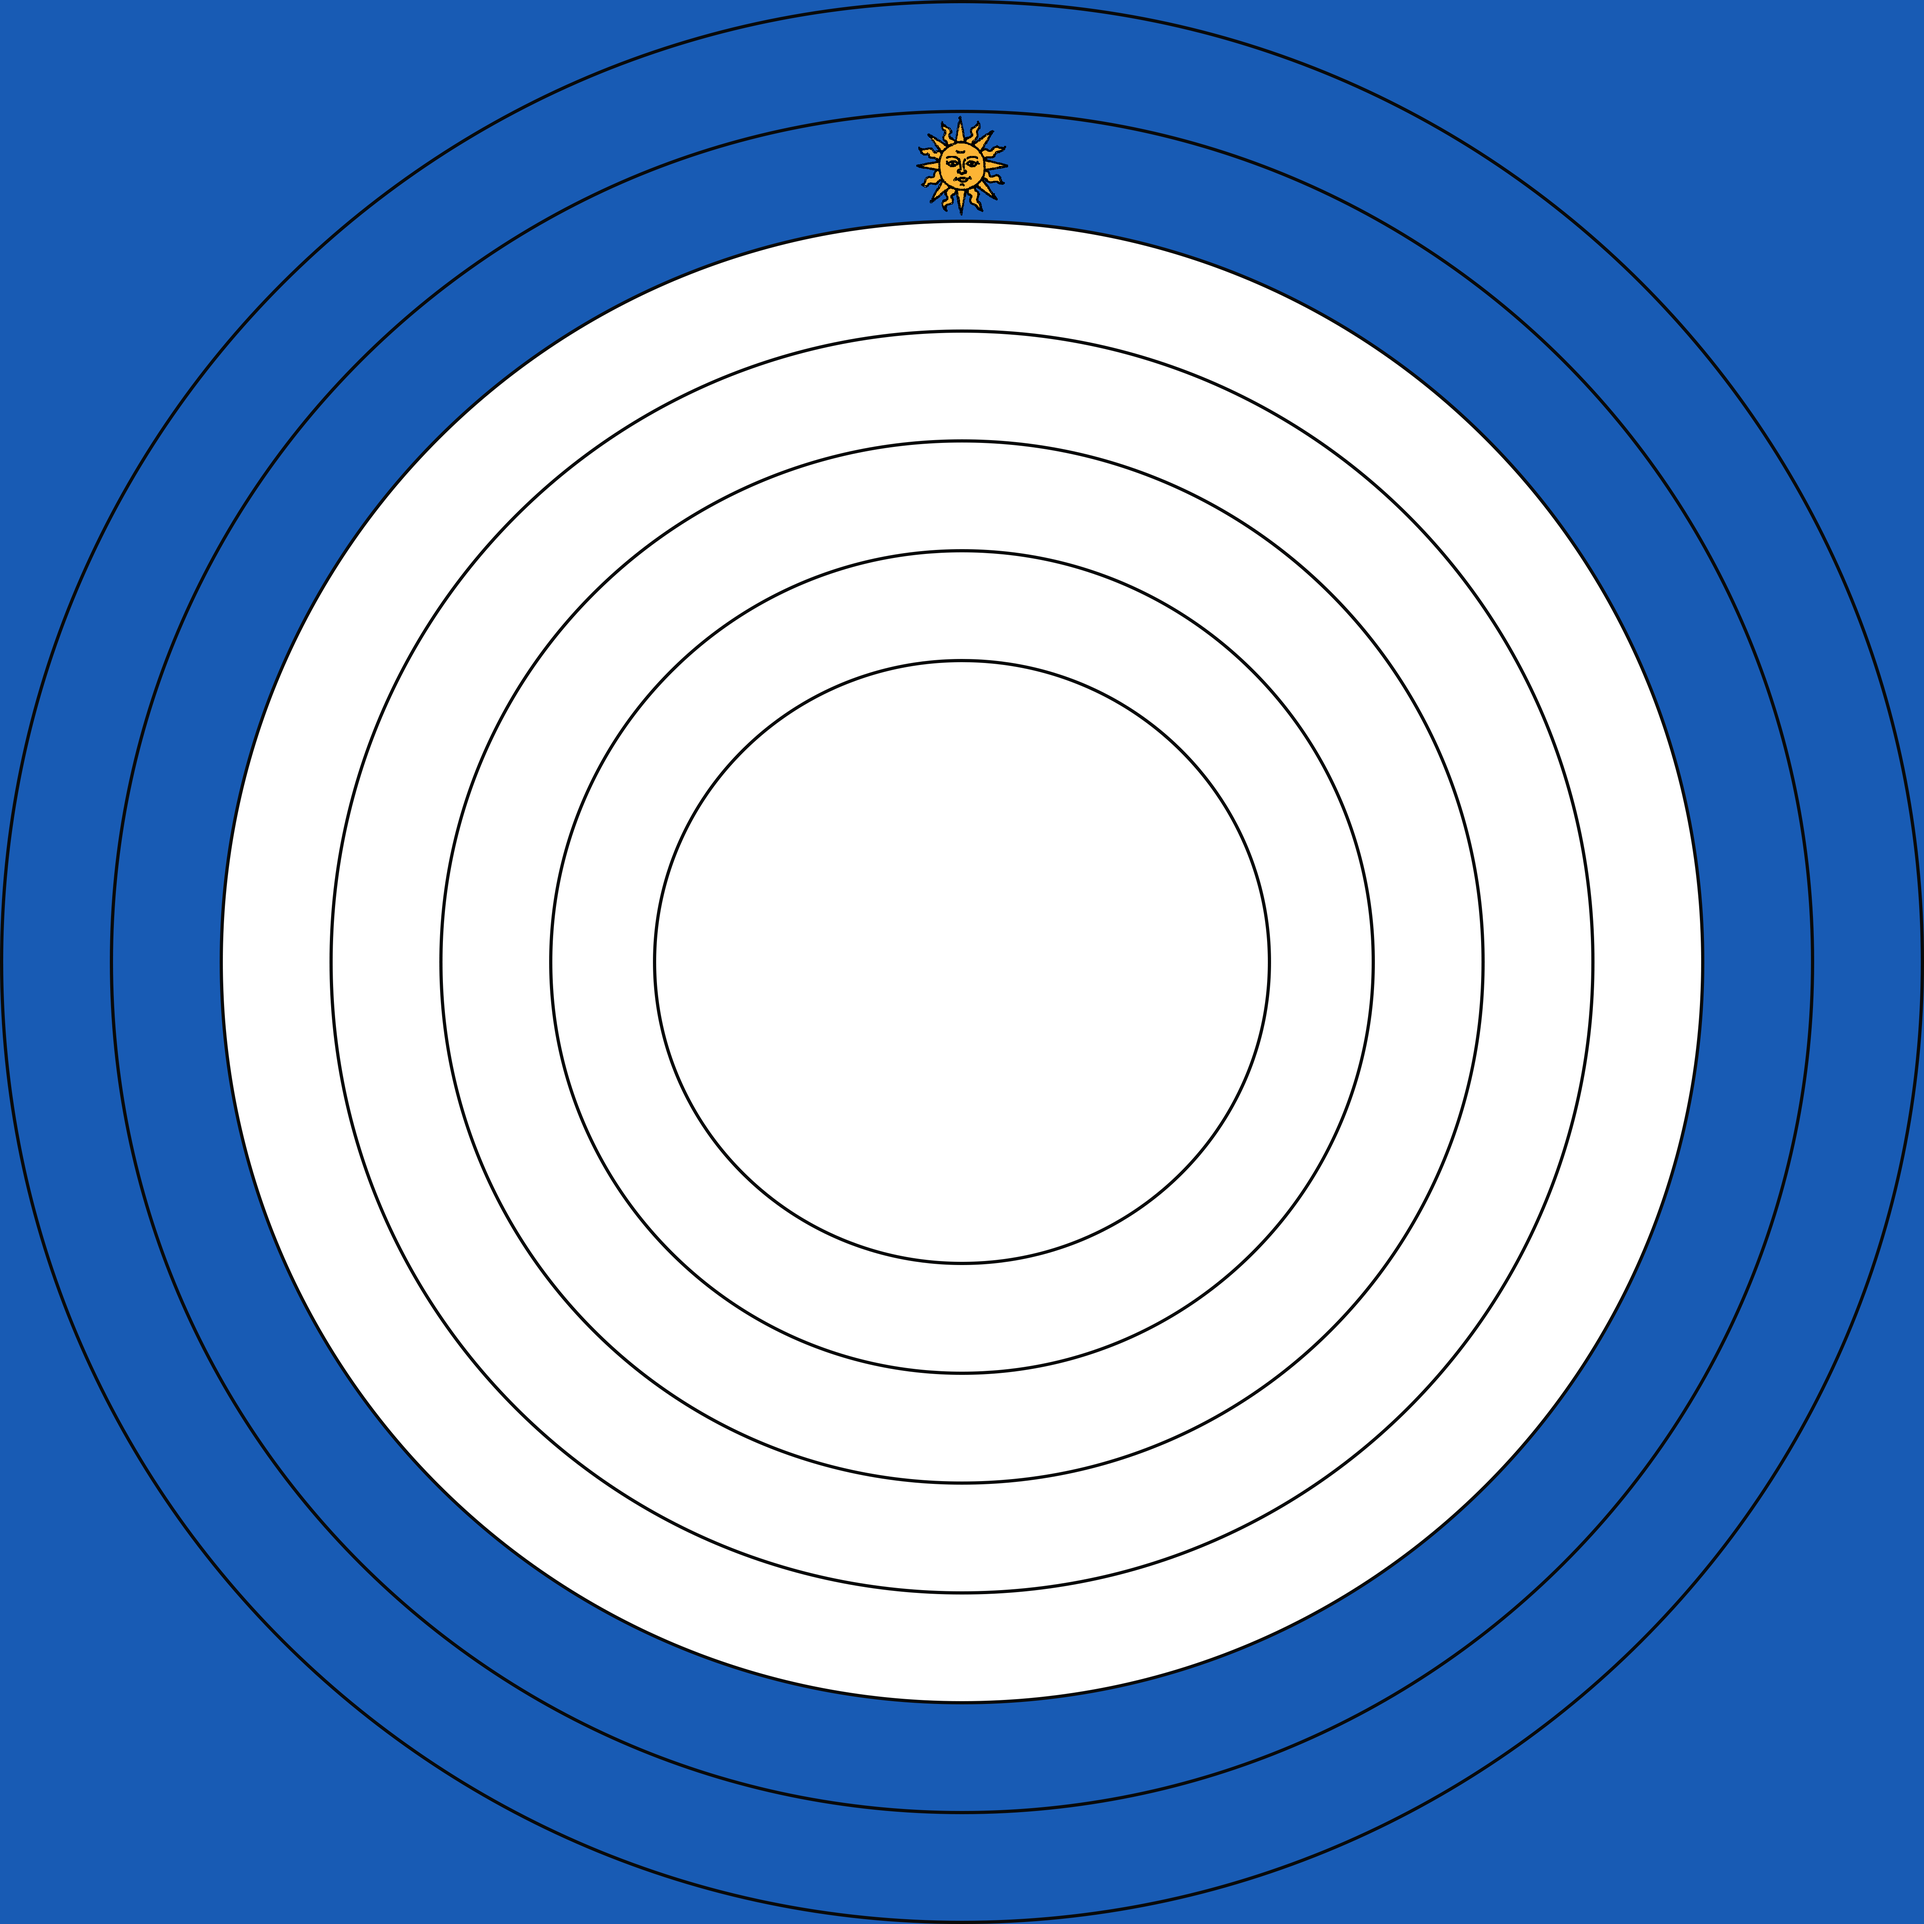
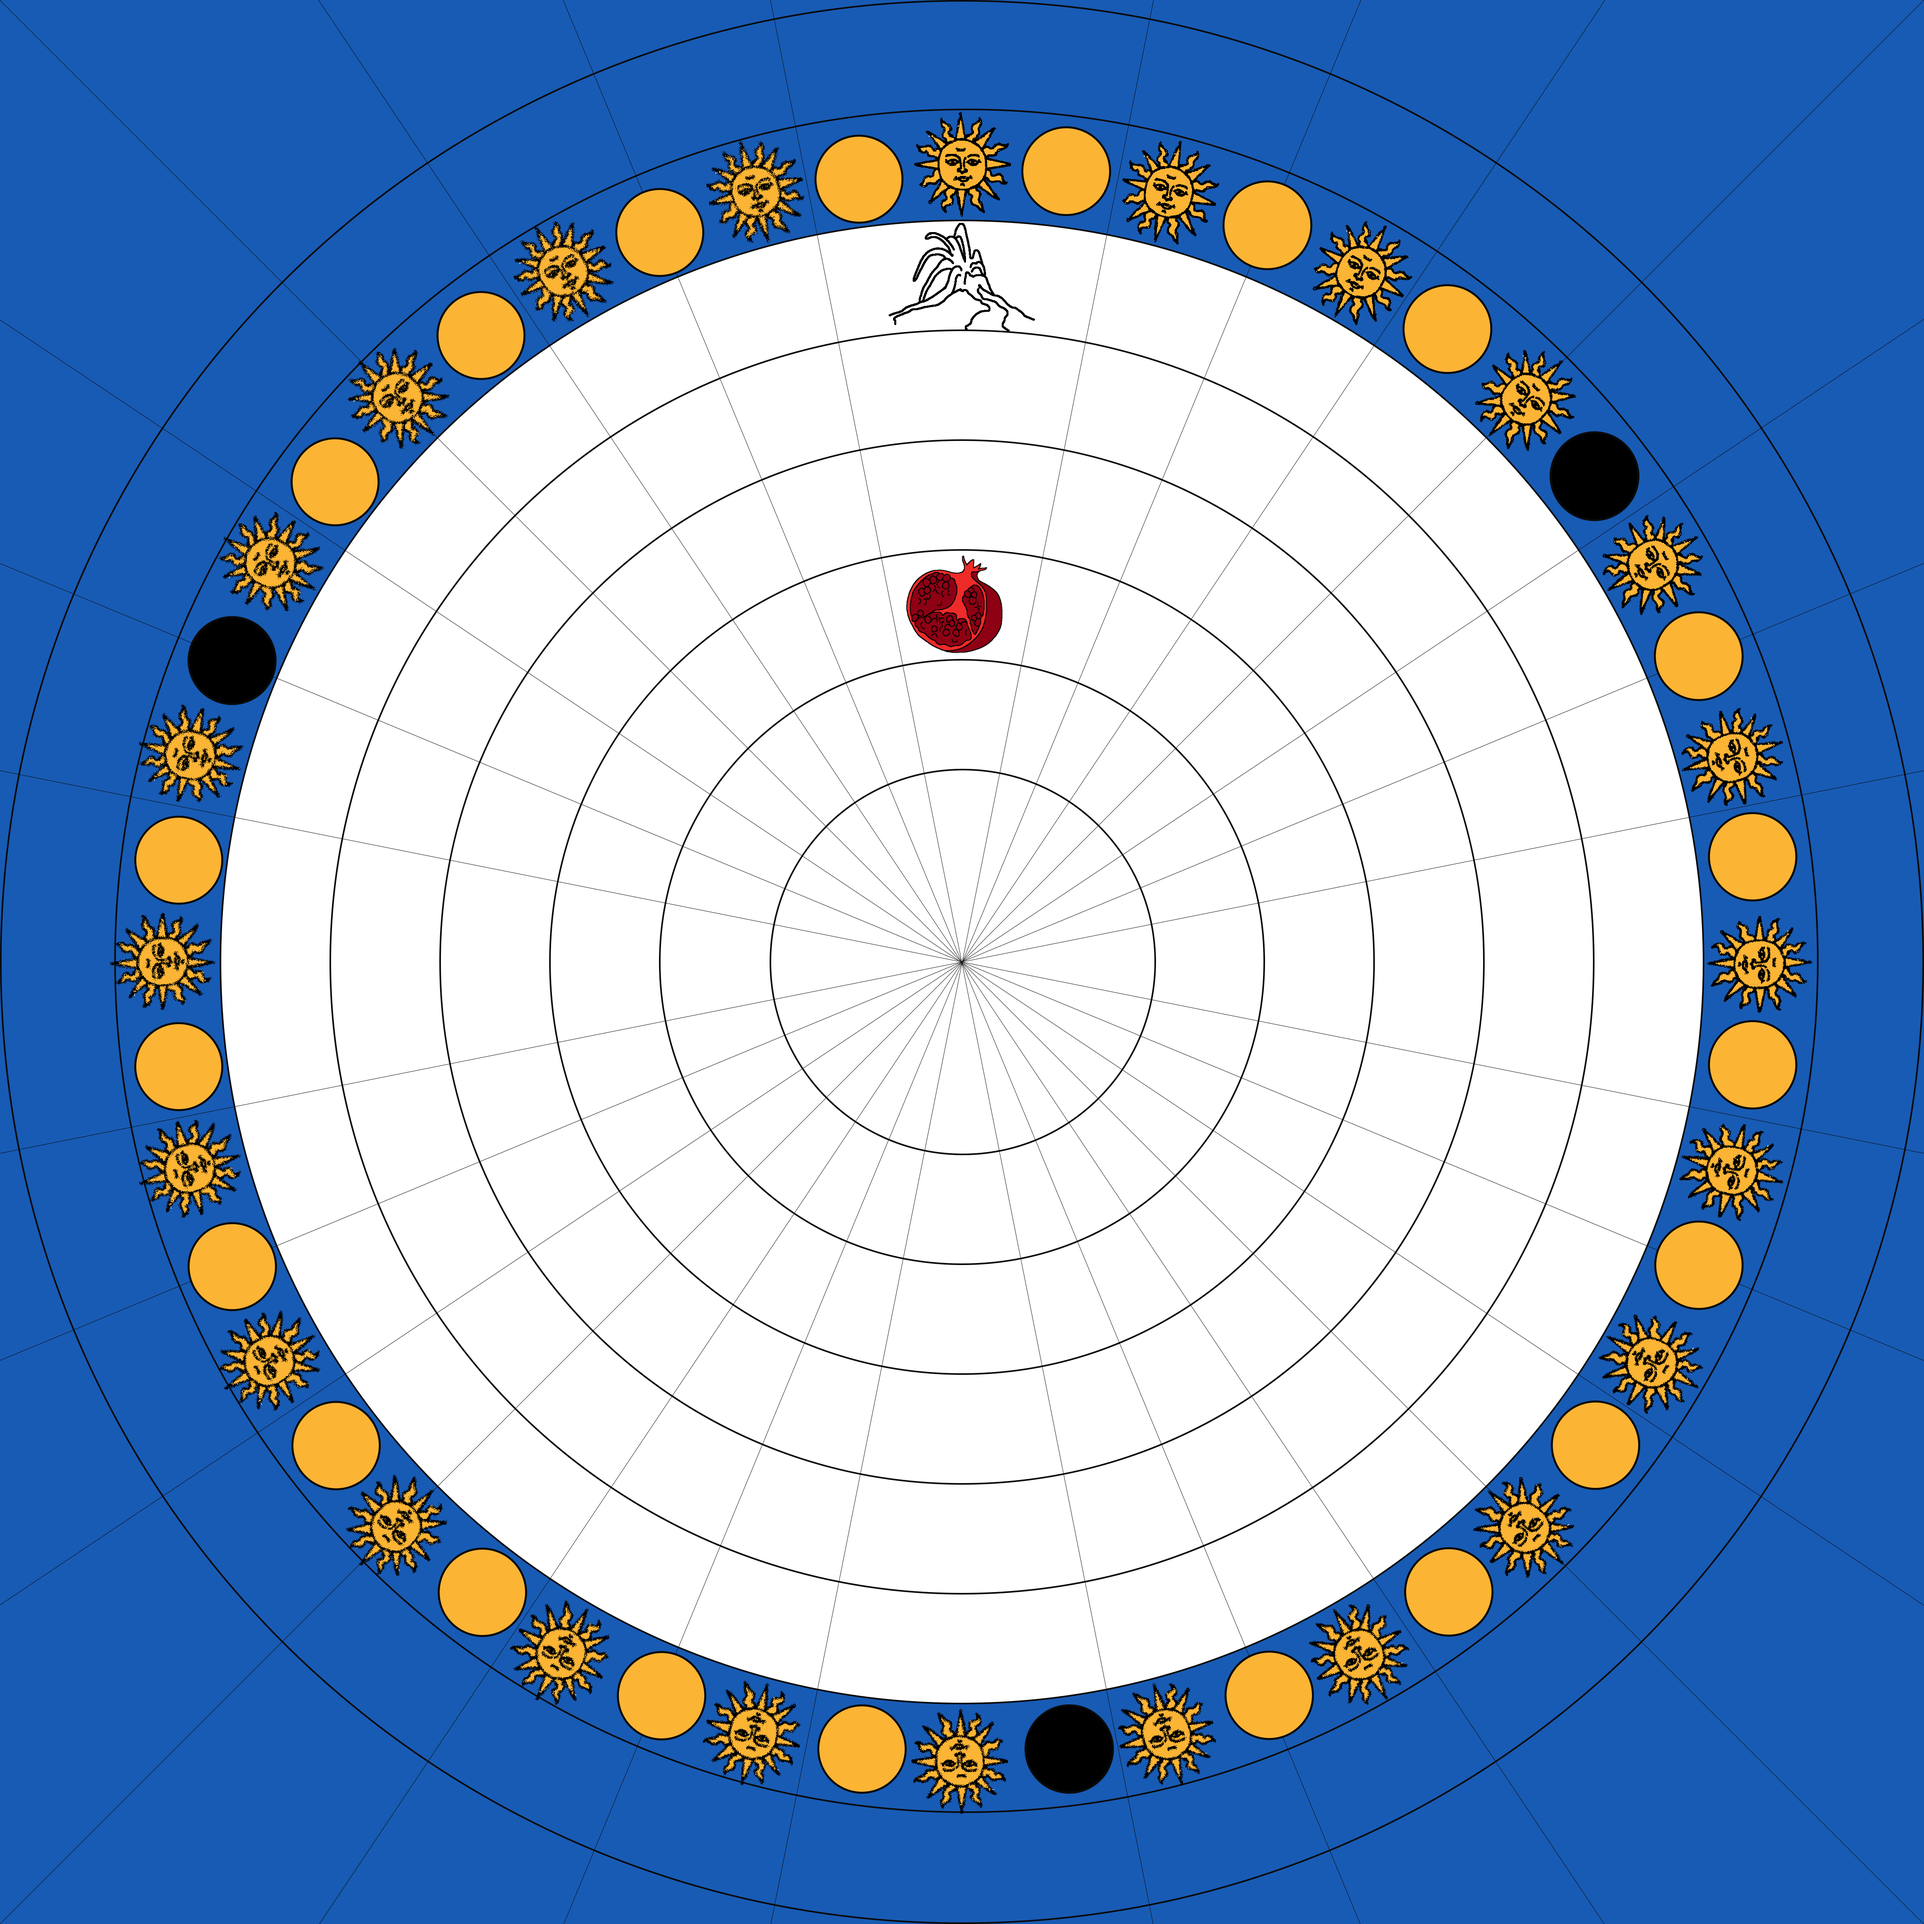
better zoetrope

diff --git a/src/components/Zoetrope.js b/src/components/Zoetrope.js
@@ -1,10 +1,14 @@
 import React from "react"
 import styles from "./Zoetrope.module.styl"
+import image from '../images/zoetrope.png'
 
 
 const Zoetrope = () => (
   <div className={styles.container}>
-    <div className={styles.wheel}></div>
+    <div className={styles.imgWrap}>
+      <img src={image} alt="zoetrope"/>
+    </div>
+    {/*<div className={styles.wheel}></div>*/}
     {/*<div className={styles.cover}>A&J</div>*/}
   </div>
 )
